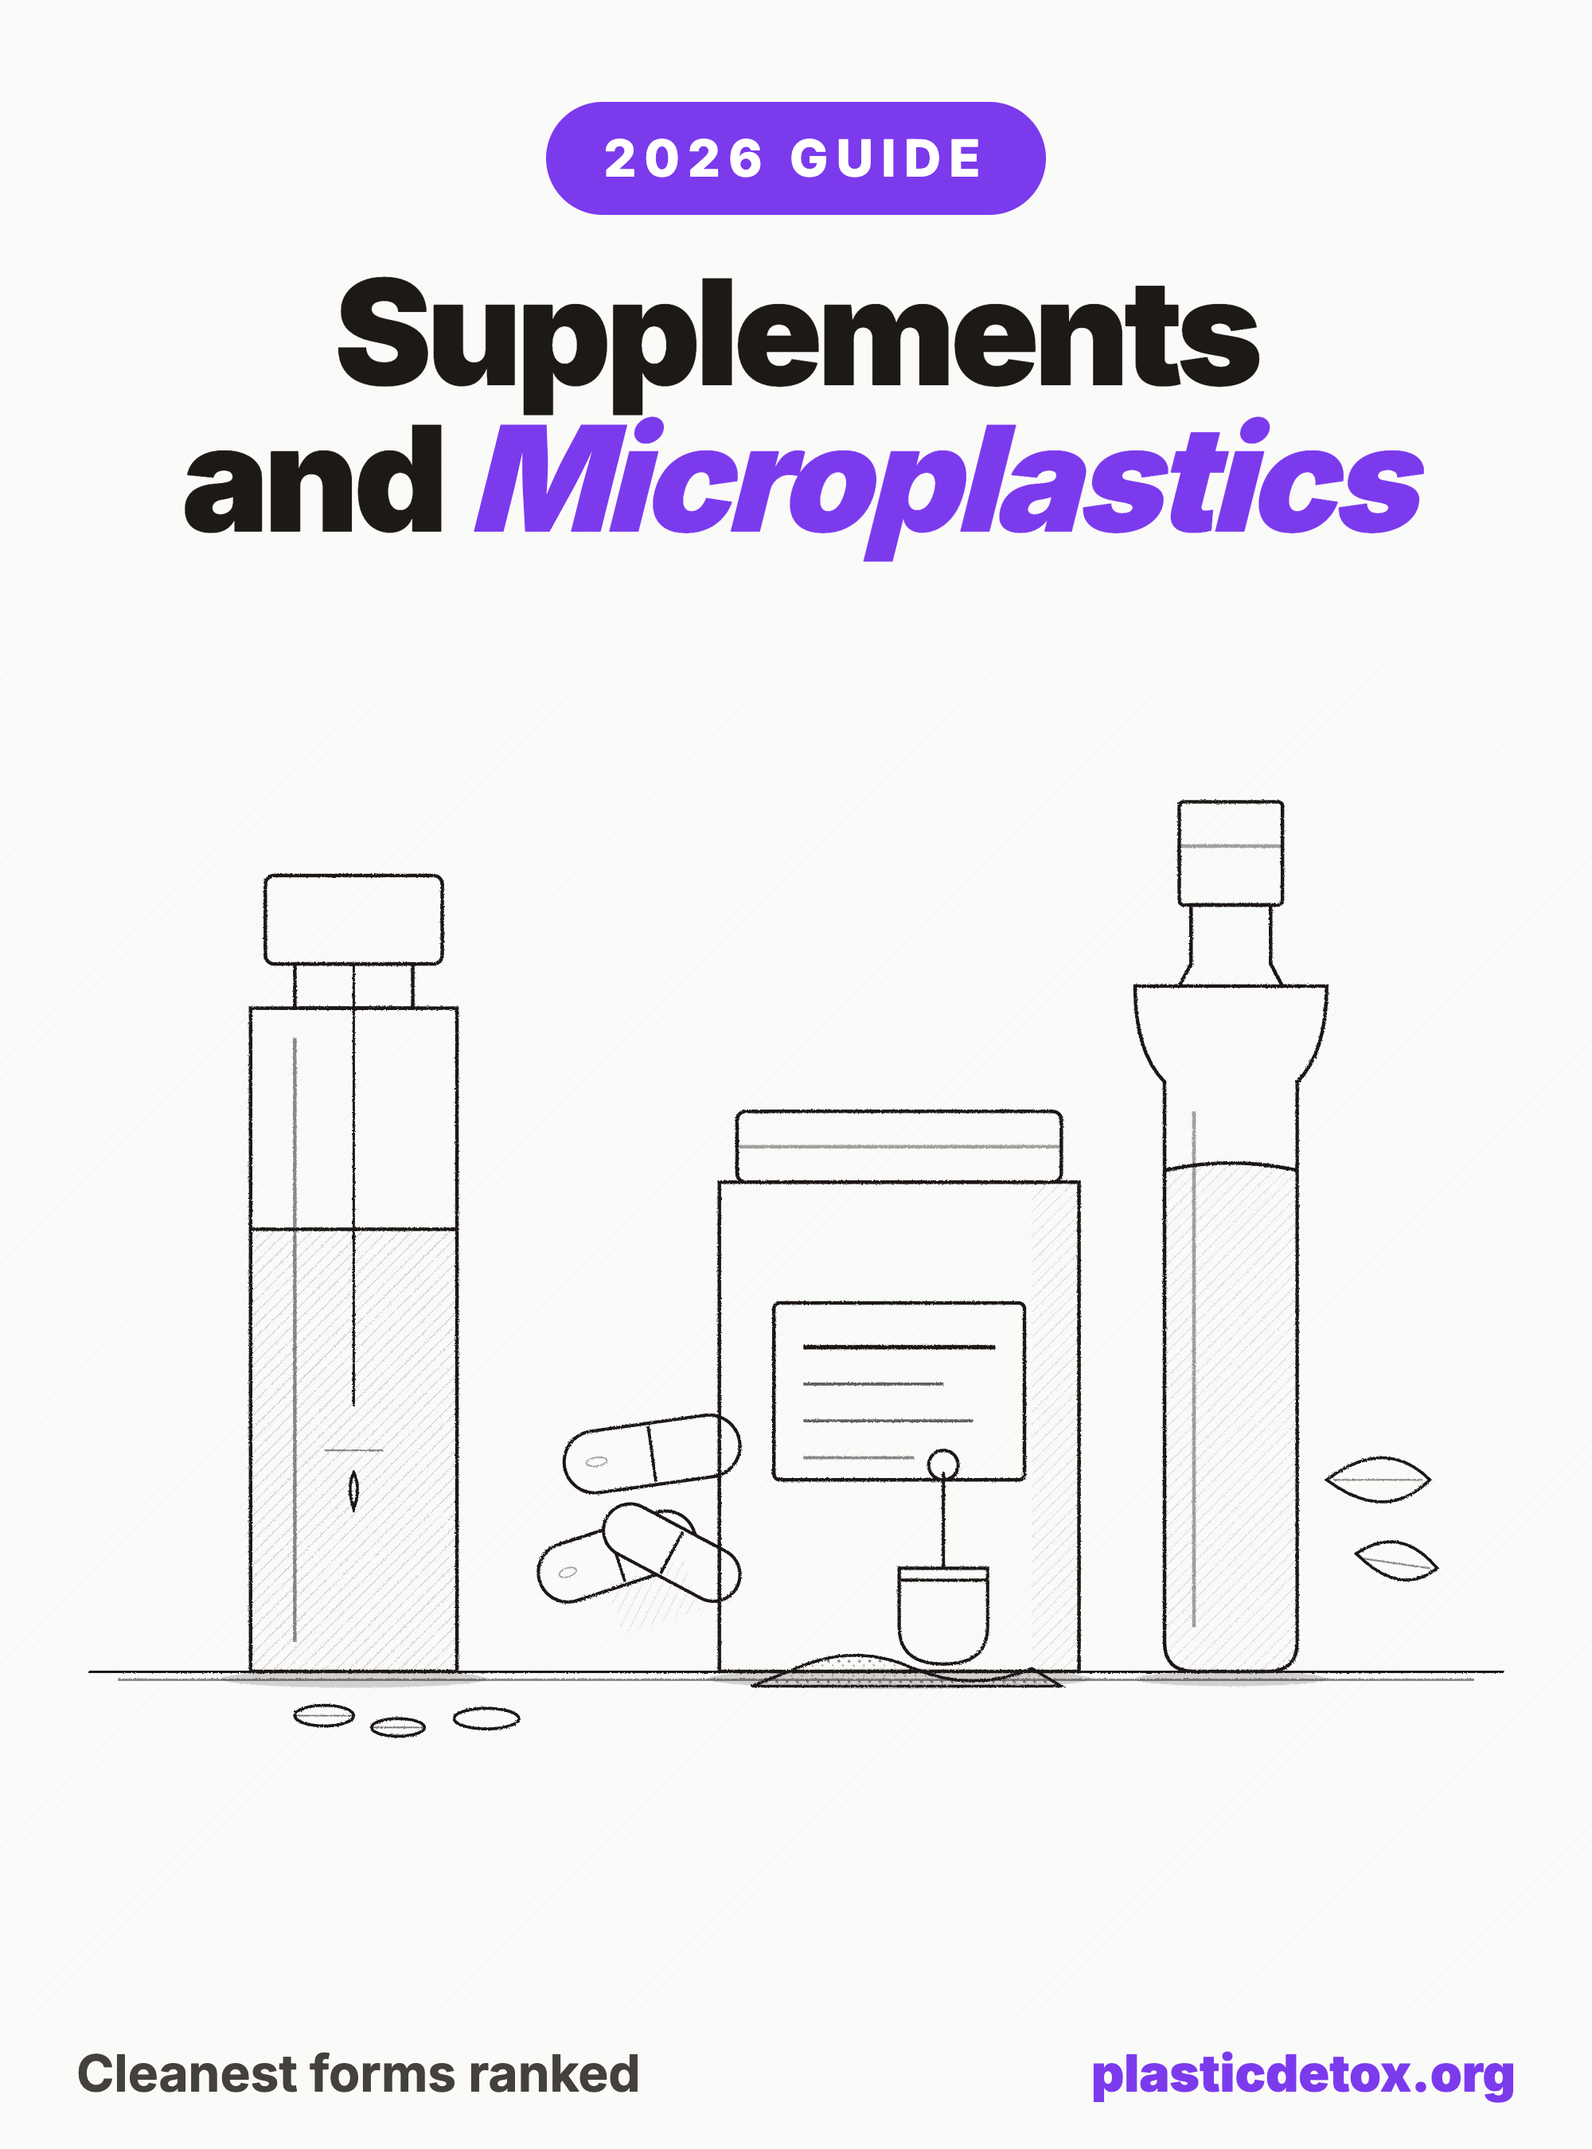
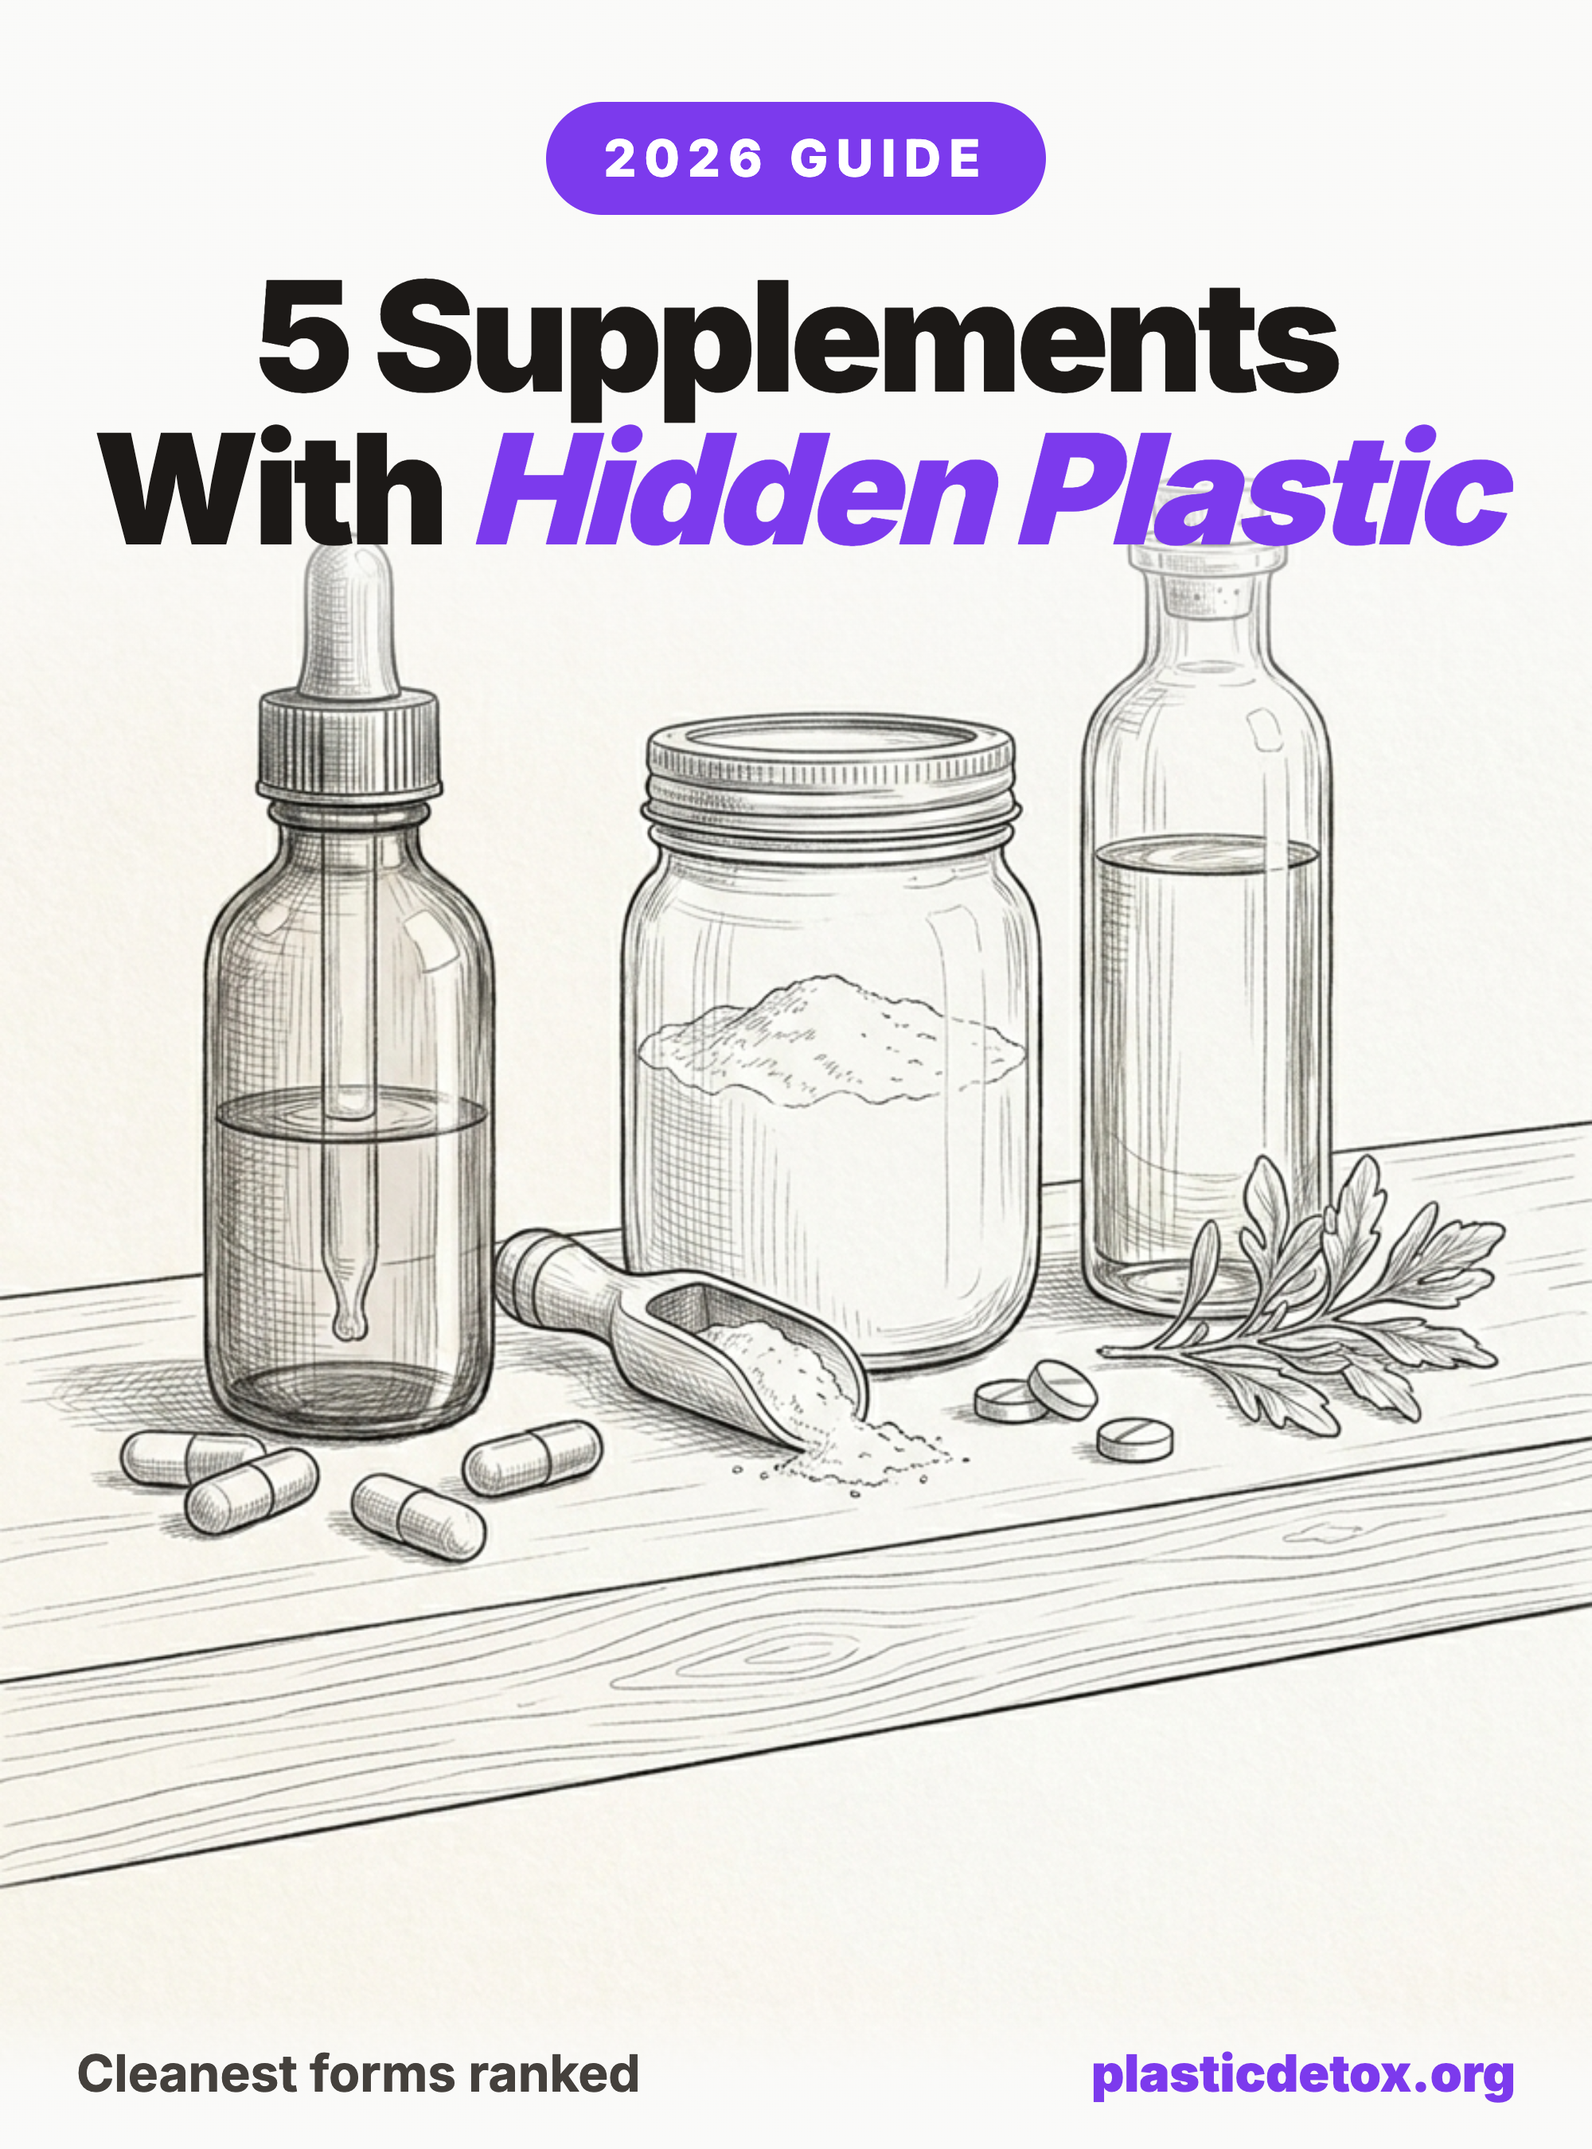
Supplements article: swap pin to user-supplied illustration with high-CTR headline
Replaces the inline-SVG hero with the proper pencil-sketch source
illustration the user added, and pins it as the Pinterest hero with
a stronger headline. "5 Supplements With Hidden Plastic" leans into
the number + curiosity-gap pattern that performs on Pinterest, while
"Cleanest forms ranked" in the footer keeps the article's actual hook
visible.

Updates pin:description, pin save button URL, and the data-pin-description
on the inline image so the high-CTR headline propagates to social/Pinterest.

Changed region(s): [[0.0, 0.1244, 1.0, 0.8711]]

diff --git a/images/supplements-article-hero.html b/images/supplements-article-hero.html
@@ -15,18 +15,20 @@
       overflow: hidden;
       background: #fafaf9;
     }
-    .pin > svg.bg {
+    .pin > img {
       width: 100%;
       height: 100%;
+      object-fit: cover;
+      object-position: center 65%;
       display: block;
     }
     .top-overlay {
       position: absolute;
       top: 0; left: 0; right: 0;
-      padding: 64px 50px 110px;
+      padding: 64px 50px 130px;
       background: linear-gradient(to bottom,
         rgba(250, 250, 249, 0.97) 0%,
-        rgba(250, 250, 249, 0.90) 55%,
+        rgba(250, 250, 249, 0.92) 55%,
         rgba(250, 250, 249, 0) 100%
       );
       text-align: center;
@@ -44,7 +46,7 @@
       margin-bottom: 28px;
     }
     .top-overlay h1 {
-      font-size: 92px;
+      font-size: 96px;
       font-weight: 900;
       color: #1c1917;
       line-height: 1.0;
@@ -70,152 +72,10 @@
 </head>
 <body>
   <div class="pin">
-    <svg class="bg" viewBox="0 0 1080 1350" xmlns="http://www.w3.org/2000/svg" aria-hidden="true">
-      <defs>
-        <filter id="pencil" x="-5%" y="-5%" width="110%" height="110%">
-          <feTurbulence type="fractalNoise" baseFrequency="0.85" numOctaves="2" seed="3" result="noise"/>
-          <feDisplacementMap in="SourceGraphic" in2="noise" scale="1.6"/>
-        </filter>
-        <pattern id="hatch" patternUnits="userSpaceOnUse" width="6" height="6" patternTransform="rotate(45)">
-          <line x1="0" y1="0" x2="0" y2="6" stroke="#1c1917" stroke-width="0.6" opacity="0.35"/>
-        </pattern>
-        <pattern id="hatchLight" patternUnits="userSpaceOnUse" width="8" height="8" patternTransform="rotate(45)">
-          <line x1="0" y1="0" x2="0" y2="8" stroke="#1c1917" stroke-width="0.4" opacity="0.18"/>
-        </pattern>
-        <pattern id="dotsPowder" patternUnits="userSpaceOnUse" width="7" height="7">
-          <circle cx="2" cy="2" r="0.9" fill="#1c1917" opacity="0.55"/>
-          <circle cx="5" cy="5" r="0.6" fill="#1c1917" opacity="0.4"/>
-        </pattern>
-      </defs>
-
-      <!-- background paper texture -->
-      <rect width="1080" height="1350" fill="#fafaf9"/>
-      <rect width="1080" height="1350" fill="url(#hatchLight)" opacity="0.4"/>
-
-      <!-- Counter / shelf line -->
-      <g stroke="#1c1917" stroke-width="2.2" fill="none" filter="url(#pencil)">
-        <line x1="60" y1="1080" x2="1020" y2="1080"/>
-        <line x1="80" y1="1086" x2="1000" y2="1086" opacity="0.5"/>
-      </g>
-
-      <!-- LEFT: Glass dropper bottle (vitamin D) -->
-      <g filter="url(#pencil)" stroke="#1c1917" stroke-width="2.4" fill="none">
-        <!-- Cap -->
-        <rect x="180" y="540" width="120" height="60" rx="6"/>
-        <!-- Neck -->
-        <rect x="200" y="600" width="80" height="30"/>
-        <!-- Bottle body -->
-        <path d="M 170 630 L 170 1080 L 310 1080 L 310 630 Z"/>
-        <!-- Bottle highlight -->
-        <line x1="200" y1="650" x2="200" y2="1060" opacity="0.5"/>
-        <!-- Liquid level -->
-        <line x1="170" y1="780" x2="310" y2="780"/>
-        <!-- Dropper inside -->
-        <line x1="240" y1="600" x2="240" y2="900" stroke-width="1.6"/>
-        <!-- Tonal fill -->
-      </g>
-      <rect x="170" y="780" width="140" height="300" fill="url(#hatch)" filter="url(#pencil)"/>
-
-      <!-- LEFT: Liquid drop falling -->
-      <g filter="url(#pencil)" stroke="#1c1917" stroke-width="2" fill="none">
-        <path d="M 240 945 Q 235 955 240 970 Q 245 955 240 945 Z"/>
-        <line x1="220" y1="930" x2="260" y2="930" stroke-width="1.2" opacity="0.5"/>
-      </g>
-
-      <!-- CENTER LEFT: Capsules scattered -->
-      <g filter="url(#pencil)" stroke="#1c1917" stroke-width="2.2" fill="#fafaf9">
-        <!-- capsule 1 -->
-        <g transform="translate(360,1000) rotate(-18)">
-          <rect x="0" y="0" width="110" height="40" rx="20"/>
-          <line x1="55" y1="2" x2="55" y2="38" stroke-width="2"/>
-          <ellipse cx="20" cy="20" rx="6" ry="3" fill="none" opacity="0.4" stroke-width="1"/>
-        </g>
-        <!-- capsule 2 -->
-        <g transform="translate(420,960) rotate(28)">
-          <rect x="0" y="0" width="100" height="36" rx="18"/>
-          <line x1="50" y1="2" x2="50" y2="34" stroke-width="2"/>
-        </g>
-        <!-- capsule 3 -->
-        <g transform="translate(380,920) rotate(-8)">
-          <rect x="0" y="0" width="120" height="42" rx="21"/>
-          <line x1="60" y1="2" x2="60" y2="40" stroke-width="2"/>
-          <ellipse cx="22" cy="21" rx="7" ry="3" fill="none" opacity="0.4" stroke-width="1"/>
-        </g>
-      </g>
-      <!-- shading on capsule right halves -->
-      <g filter="url(#pencil)" opacity="0.6">
-        <path d="M 415 1006 L 415 1042 L 470 1042 L 470 1006 Z" fill="url(#hatch)" transform="rotate(-18,460,1024)"/>
-      </g>
-
-      <!-- CENTER: Powder jar (creatine / magnesium) -->
-      <g filter="url(#pencil)" stroke="#1c1917" stroke-width="2.4" fill="none">
-        <!-- Lid -->
-        <rect x="500" y="700" width="220" height="48" rx="6"/>
-        <line x1="500" y1="724" x2="720" y2="724" opacity="0.4"/>
-        <!-- Jar body -->
-        <path d="M 488 748 L 488 1080 L 732 1080 L 732 748 Z"/>
-        <!-- Label box -->
-        <rect x="525" y="830" width="170" height="120" rx="4"/>
-        <!-- label text lines -->
-        <line x1="545" y1="860" x2="675" y2="860" stroke-width="3"/>
-        <line x1="545" y1="885" x2="640" y2="885" stroke-width="2" opacity="0.7"/>
-        <line x1="545" y1="910" x2="660" y2="910" stroke-width="2" opacity="0.7"/>
-        <line x1="545" y1="935" x2="620" y2="935" stroke-width="2" opacity="0.5"/>
-      </g>
-      <!-- jar shadow side -->
-      <rect x="700" y="748" width="32" height="332" fill="url(#hatch)" filter="url(#pencil)" opacity="0.7"/>
-      <!-- powder spilling out front -->
-      <path d="M 540 1078 Q 580 1060 620 1078 Q 660 1095 700 1078 L 720 1090 L 510 1090 Z" fill="url(#dotsPowder)" stroke="#1c1917" stroke-width="2" filter="url(#pencil)"/>
-      <!-- scoop -->
-      <g filter="url(#pencil)" stroke="#1c1917" stroke-width="2.2" fill="none">
-        <path d="M 610 1010 L 610 1050 Q 610 1075 640 1075 Q 670 1075 670 1050 L 670 1010 Z"/>
-        <line x1="610" y1="1018" x2="670" y2="1018"/>
-        <line x1="640" y1="1010" x2="640" y2="945"/>
-        <circle cx="640" cy="940" r="10"/>
-      </g>
-
-      <!-- RIGHT: Tall glass bottle with cork (omega 3 cod liver oil) -->
-      <g filter="url(#pencil)" stroke="#1c1917" stroke-width="2.4" fill="none">
-        <!-- Cork -->
-        <rect x="800" y="490" width="70" height="70" rx="3"/>
-        <line x1="800" y1="520" x2="870" y2="520" opacity="0.4"/>
-        <!-- Neck -->
-        <path d="M 808 560 L 808 600 L 800 615 L 870 615 L 862 600 L 862 560 Z"/>
-        <!-- Bottle body -->
-        <path d="M 770 615 Q 770 660 790 680 L 790 1060 Q 790 1080 810 1080 L 860 1080 Q 880 1080 880 1060 L 880 680 Q 900 660 900 615 Z"/>
-        <!-- liquid level -->
-        <path d="M 790 740 Q 835 730 880 740 L 880 1060 Q 880 1080 860 1080 L 810 1080 Q 790 1080 790 1060 Z"/>
-        <!-- highlight -->
-        <line x1="810" y1="700" x2="810" y2="1050" opacity="0.4"/>
-      </g>
-      <path d="M 790 740 Q 835 730 880 740 L 880 1060 Q 880 1080 860 1080 L 810 1080 Q 790 1080 790 1060 Z" fill="url(#hatch)" filter="url(#pencil)" opacity="0.7"/>
-
-      <!-- RIGHT: leaves / botanical accent (algae omega) -->
-      <g filter="url(#pencil)" stroke="#1c1917" stroke-width="2" fill="none">
-        <path d="M 900 950 Q 940 920 970 950 Q 940 980 900 950 Z"/>
-        <line x1="905" y1="950" x2="965" y2="950" stroke-width="1.2" opacity="0.5"/>
-        <path d="M 920 1000 Q 950 980 975 1010 Q 950 1030 920 1000 Z"/>
-        <line x1="922" y1="1003" x2="970" y2="1010" stroke-width="1.2" opacity="0.5"/>
-      </g>
-
-      <!-- BOTTOM: scattered tablets -->
-      <g filter="url(#pencil)" stroke="#1c1917" stroke-width="2" fill="#fafaf9">
-        <ellipse cx="220" cy="1110" rx="20" ry="7"/>
-        <ellipse cx="270" cy="1118" rx="18" ry="6"/>
-        <ellipse cx="330" cy="1112" rx="22" ry="7"/>
-        <line x1="200" y1="1110" x2="240" y2="1110" stroke-width="1" opacity="0.6"/>
-        <line x1="252" y1="1118" x2="288" y2="1118" stroke-width="1" opacity="0.6"/>
-      </g>
-
-      <!-- shadows on counter -->
-      <ellipse cx="240" cy="1085" rx="90" ry="6" fill="#1c1917" opacity="0.18" filter="url(#pencil)"/>
-      <ellipse cx="610" cy="1085" rx="130" ry="7" fill="#1c1917" opacity="0.18" filter="url(#pencil)"/>
-      <ellipse cx="835" cy="1085" rx="65" ry="5" fill="#1c1917" opacity="0.18" filter="url(#pencil)"/>
-    </svg>
-
+    <img src="supplements.png" alt="Pencil sketch of a glass dropper bottle, glass jar of powder with scoop, and tall glass apothecary bottle on a wooden shelf">
     <div class="top-overlay">
       <div class="headline-tag">2026 Guide</div>
-      <h1>Supplements<br>and <span class="accent">Microplastics</span></h1>
+      <h1>5 Supplements<br>With <span class="accent">Hidden Plastic</span></h1>
     </div>
     <div class="footer">
       <span class="footer-stat">Cleanest forms ranked</span>

diff --git a/articles/supplements-and-microplastics.html b/articles/supplements-and-microplastics.html
@@ -24,7 +24,7 @@
   <meta name="twitter:description" content="No third party certifier tests supplements for microplastics. Here is what the research shows, and the cleanest forms and brands for the top 5 supplements.">
   <meta name="twitter:image" content="https://plasticdetox.org/images/supplements-article-hero.webp">
 
-  <meta name="pin:description" content="The supplement industry tests for heavy metals and pesticides. Microplastics are a near total testing gap. Here is why softgels are the worst form, why liquid in glass beats encapsulated, and the cleanest picks for vitamin D, magnesium, omega 3, creatine, and protein powder.">
+  <meta name="pin:description" content="5 Supplements With Hidden Plastic. No third party certifier tests supplements for microplastics. Here is why softgels are the worst form, why liquid in glass beats encapsulated, and the cleanest picks for vitamin D, magnesium, omega 3, creatine, and protein powder.">
   <meta name="pin:url" content="https://plasticdetox.org/articles/supplements-and-microplastics.html">
   <meta name="pin:media" content="https://plasticdetox.org/images/supplements-article-hero.webp">
 
@@ -238,11 +238,11 @@
     <p>That is the floor of what we know. The ceiling is unknown because nobody is funding the testing. This guide walks through where plastic enters the supplement supply chain, ranks the forms from cleanest to dirtiest, and gives the cleanest realistic pick for the five supplements most people actually take.</p>
 
     <div class="pin-container">
-      <a class="pin-button" href="https://www.pinterest.com/pin/create/button/?url=https%3A%2F%2Fplasticdetox.org%2Farticles%2Fsupplements-and-microplastics.html&media=https%3A%2F%2Fplasticdetox.org%2Fimages%2Fsupplements-article-hero.webp&description=Supplements%20and%20Microplastics%3A%20The%20Cleanest%20Forms%2C%20Brands%2C%20and%20What%20to%20Skip" target="_blank" rel="noopener">
+      <a class="pin-button" href="https://www.pinterest.com/pin/create/button/?url=https%3A%2F%2Fplasticdetox.org%2Farticles%2Fsupplements-and-microplastics.html&media=https%3A%2F%2Fplasticdetox.org%2Fimages%2Fsupplements-article-hero.webp&description=5%20Supplements%20With%20Hidden%20Plastic.%20The%20supplement%20industry%20is%20not%20tested%20for%20microplastics.%20Here%20is%20the%20form%20ranking%20from%20cleanest%20to%20dirtiest%2C%20and%20the%20cleanest%20picks%20for%20vitamin%20D%2C%20magnesium%2C%20omega%203%2C%20creatine%2C%20and%20protein%20powder." target="_blank" rel="noopener">
         <svg viewBox="0 0 24 24"><path d="M12 0C5.373 0 0 5.373 0 12c0 5.084 3.163 9.426 7.627 11.174-.105-.949-.2-2.405.042-3.441.218-.937 1.407-5.965 1.407-5.965s-.359-.719-.359-1.782c0-1.668.967-2.914 2.171-2.914 1.023 0 1.518.769 1.518 1.69 0 1.029-.655 2.568-.994 3.995-.283 1.194.599 2.169 1.777 2.169 2.133 0 3.772-2.249 3.772-5.495 0-2.873-2.064-4.882-5.012-4.882-3.414 0-5.418 2.561-5.418 5.207 0 1.031.397 2.138.893 2.738a.36.36 0 0 1 .083.345l-.333 1.36c-.053.22-.174.267-.402.161-1.499-.698-2.436-2.889-2.436-4.649 0-3.785 2.75-7.262 7.929-7.262 4.163 0 7.398 2.967 7.398 6.931 0 4.136-2.607 7.464-6.227 7.464-1.216 0-2.359-.631-2.75-1.378l-.748 2.853c-.271 1.043-1.002 2.35-1.492 3.146C9.57 23.812 10.763 24 12 24c6.627 0 12-5.373 12-12S18.627 0 12 0z"/></svg>
         Save
       </a>
-      <img class="pin-img" src="../images/supplements-article-hero.webp" alt="The complete 2026 guide to supplements and microplastics" data-pin-description="Supplements and Microplastics: The Cleanest Forms, Brands, and What to Skip. The supplement industry is not tested for microplastics. Here is what the research shows.">
+      <img class="pin-img" src="../images/supplements-article-hero.webp" alt="5 supplements with hidden plastic: pencil illustration of glass dropper bottle, glass jar of powder, and tall glass bottle with capsules and herbs" data-pin-description="5 Supplements With Hidden Plastic. The supplement industry is not tested for microplastics. Here is the form ranking from cleanest to dirtiest, and the cleanest picks for vitamin D, magnesium, omega 3, creatine, and protein powder.">
     </div>
 
     <div class="tldr-card">
